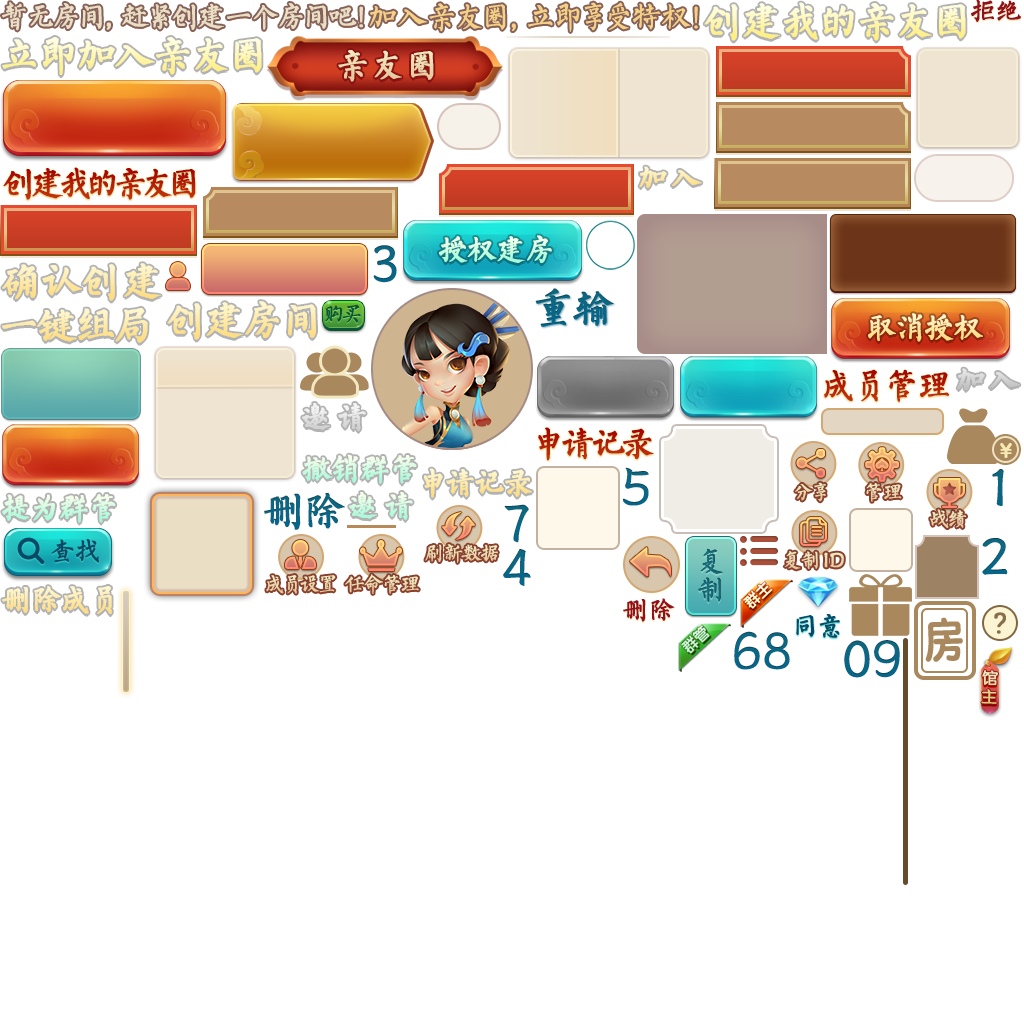
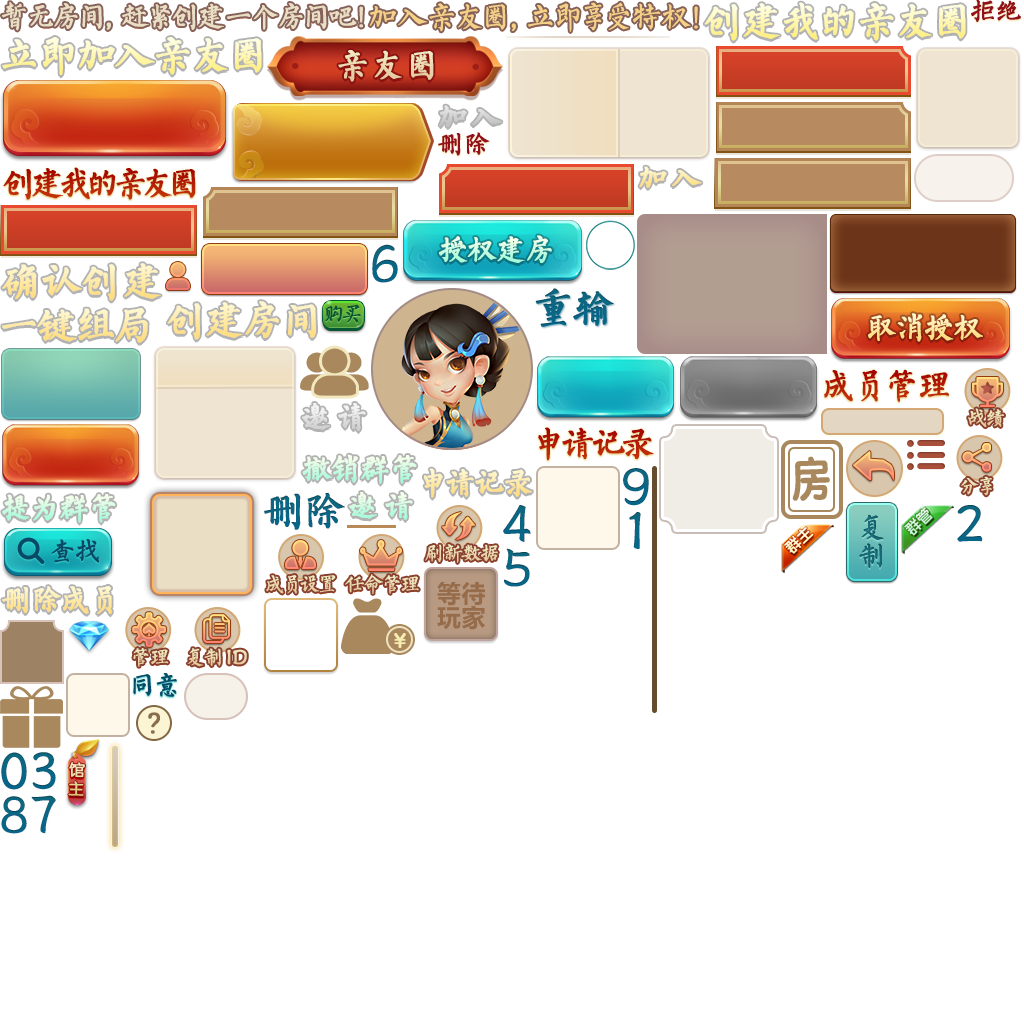
拉取俱乐部房间，创建俱乐部房间，暂时无法进入

diff --git a/assets/Script/modules/lobby/views/club/ClubView.ts b/assets/Script/modules/lobby/views/club/ClubView.ts
@@ -1,6 +1,7 @@
 import { DataStore, Dialog, HTTP, LEnv, LobbyModuleInterface, Logger } from "../../lcore/LCoreExports";
 import { proto } from "../../proto/protoLobby";
 import { LobbyError } from "../LobbyError";
+import { NewRoomView } from "../NewRoomView";
 import { ApplyRecordView } from "./ApplyRecordView";
 import { ClubRequestError } from "./ClubRequestError";
 import { CreateClubView } from "./CreateClubView";
@@ -24,10 +25,10 @@ export class ClubView extends cc.Component {
     private createClubViewEventTarget: cc.EventTarget;
     private content: fgui.GComponent;
     // 茶馆页面
-    private clubPage: fgui.GObject;
+    private clubPage: fgui.GComponent;
 
     // 非茶馆页面
-    private noClubPage: fgui.GObject;
+    private noClubPage: fgui.GComponent;
 
     // 茶馆列表节点
     private clubList: fgui.GList;
@@ -38,20 +39,22 @@ export class ClubView extends cc.Component {
     // 选择的茶馆
     private selectedClub: proto.club.IMsgClubInfo;
 
+    // 茶馆房间列表
+    private roomList: fgui.GList;
+
+    private roomInfos: proto.lobby.IRoomInfo[] = [];
+
     public disbandClub(): void {
 
         const tk = DataStore.getString("token", "");
         const url = `${LEnv.rootURL}${LEnv.deleteClub}?&tk=${tk}&clubID=${this.selectedClub.baseInfo.clubID}`;
 
         const cb = (xhr: XMLHttpRequest, err: string) => {
-
             const data = <Uint8Array>xhr.response;
             this.reloadCLub(data);
-
         };
 
         this.clubRequest(url, cb);
-
     }
 
     public modifyClubName(): void {
@@ -59,15 +62,12 @@ export class ClubView extends cc.Component {
     }
 
     public quitClub(): void {
-        //
         const tk = DataStore.getString("token", "");
         const url = `${LEnv.rootURL}${LEnv.quitClub}?&tk=${tk}&clubID=${this.selectedClub.baseInfo.clubID}`;
 
         const cb = (xhr: XMLHttpRequest, err: string) => {
-
             const data = <Uint8Array>xhr.response;
             this.reloadCLub(data);
-
         };
 
         this.clubRequest(url, cb);
@@ -102,8 +102,8 @@ export class ClubView extends cc.Component {
     private initView(): void {
 
         this.content = this.view.getChild("content").asCom;
-        this.clubPage = this.content.getChild("clubPage");
-        this.noClubPage = this.content.getChild("noClubPage");
+        this.clubPage = this.content.getChild("clubPage").asCom;
+        this.noClubPage = this.content.getChild("noClubPage").asCom;
 
         const diamondText = this.view.getChild("diamondText");
         diamondText.text = DataStore.getString("diamond");
@@ -116,6 +116,13 @@ export class ClubView extends cc.Component {
             this.renderPhraseListItem(index, item);
         };
         this.clubList.setVirtual();
+
+        // 茶馆房间列表
+        this.roomList = this.clubPage.getChild("roomList").asList;
+        this.roomList.itemRenderer = (index: number, item: fgui.GObject) => {
+            this.renderClubRoomListItem(index, item);
+        };
+        this.roomList.setVirtual();
 
         this.loadClub();
 
@@ -233,6 +240,7 @@ export class ClubView extends cc.Component {
 
     private onRefreshBtnClick(): void {
         //
+        this.loadClubRooms(this.selectedClub.baseInfo.clubID);
     }
 
     private onGameRecordBtnClick(): void {
@@ -249,6 +257,8 @@ export class ClubView extends cc.Component {
 
     private onCreateRoomBtnClick(): void {
         //
+        const view = this.addComponent(NewRoomView);
+        view.saveClubId(this.selectedClub.baseInfo.clubID);
     }
 
     private onCopyWXBtnClick(): void {
@@ -269,6 +279,105 @@ export class ClubView extends cc.Component {
 
         const view = this.addComponent(MemberManagerView);
         view.setClubInfo(this.selectedClub);
+    }
+
+    private renderClubRoomListItem(index: number, obj: fgui.GObject): void {
+
+        let roomInfo: proto.lobby.IRoomInfo;
+
+        if (this.roomInfos !== undefined) {
+            roomInfo = this.roomInfos[index];
+        }
+
+        const nameText = obj.asCom.getChild("name");
+        const stateText = obj.asCom.getChild("status").asTextField;
+        const inviteBtn = obj.asCom.getChild("inviteBtn").asButton;
+        const joinBtn = obj.asCom.getChild("JoinBtn").asButton;
+
+        nameText.text = this.getGameName(roomInfo.config);
+
+        const state = roomInfo.state;
+        //  0表示等待，1表示游戏已经开始
+        if (state === 0) {
+            stateText.text = "等待中...";
+            stateText.color = new cc.Color().fromHEX("#4b8a0e");
+        } else {
+            stateText.text = "已开局";
+            stateText.color = new cc.Color().fromHEX("#b3522e");
+
+            inviteBtn._touchDisabled = true;
+            inviteBtn.getController("gray").selectedIndex = 1;
+
+            joinBtn._touchDisabled = true;
+            joinBtn.getController("gray").selectedIndex = 1;
+
+        }
+
+        const playerNumAcquired = this.getPlayerNumAcquired(roomInfo.config);
+
+        if (playerNumAcquired === (roomInfo.users.length + 1)) {
+            inviteBtn._touchDisabled = true;
+            inviteBtn.getController("gray").selectedIndex = 1;
+
+            joinBtn._touchDisabled = true;
+            joinBtn.getController("gray").selectedIndex = 1;
+        }
+
+        for (let i = 1; i < 7; i++) {
+            obj.asCom.getChild(`iconFrame${i}`).visible = false;
+            obj.asCom.getChild(`loader${i}`).visible = false;
+            obj.asCom.getChild(`notPlayer${i}`).visible = false;
+        }
+
+        for (let i = 1; i < playerNumAcquired + 1; i++) {
+            obj.asCom.getChild(`notPlayer${i}`).visible = true;
+        }
+
+        let iconFrame;
+        let loader;
+        let notPlayer;
+
+        for (let i = 0; i < roomInfo.users.length; i++) {
+            //const player = roomInfo.users[i];
+            iconFrame = obj.asCom.getChild(`iconFrame${i + 1}`);
+            iconFrame.visible = true;
+
+            notPlayer = obj.asCom.getChild(`notPlayer${i + 1}`);
+            notPlayer.visible = false;
+
+            loader = obj.asCom.getChild(`loader${i + 1}`).asLoader;
+            loader.visible = true;
+
+            loader.url = `https://wx.qlogo.cn/mmopen/vi_32/DYAIOgq8
[1 lines of base64/hex data omitted]
+
+        }
+    }
+
+    private getPlayerNumAcquired(roomConfigStr: string): number {
+        const roomConfigJSON = <{ [key: string]: boolean | number }>JSON.parse(roomConfigStr);
+
+        return <number>roomConfigJSON[`playerNumAcquired`];
+
+    }
+
+    private getGameName(roomConfigStr: string): string {
+        const roomConfigJSON = <{ [key: string]: boolean | number }>JSON.parse(roomConfigStr);
+        const roomType = <number>roomConfigJSON[`roomType`];
+        let gameName = "";
+        switch (roomType) {
+            case 21:
+                gameName = "湛江麻将";
+                break;
+            case 1:
+                gameName = "大丰麻将";
+                break;
+
+            default:
+
+        }
+
+        return gameName;
     }
 
     private renderPhraseListItem(index: number, obj: fgui.GObject): void {
@@ -397,11 +506,21 @@ export class ClubView extends cc.Component {
 
         Logger.debug("updateClubRooms roomInfos = ", roomInfos);
 
+        this.roomInfos = [];
+
         if (roomInfos.length === 0) {
             this.clubPage.asCom.getController("hasRoom").selectedIndex = 0;
         } else {
+            this.clubPage.asCom.getController("hasRoom").selectedIndex = 1;
             //
+            this.roomInfos = roomInfos;
+            this.updateClubRoomsList();
         }
+
+    }
+
+    private updateClubRoomsList(): void {
+        this.roomList.numItems = this.roomInfos.length;
     }
 
     private reloadCLub(data: Uint8Array): void {

diff --git a/assets/Script/modules/lobby/views/NewRoomView.ts b/assets/Script/modules/lobby/views/NewRoomView.ts
@@ -27,60 +27,14 @@ export class NewRoomView extends cc.Component {
     private ruleViews: { [key: string]: RuleView } = {};
     private priceCfgs: { [key: string]: object };
 
+    private clubId: string = null;
+
     public getView(): fgui.GComponent {
         return this.view;
     }
 
-    public createRoom(ruleJson: string): void {
-        Logger.debug("NewRoomView.createRoom, ruleJson:", ruleJson);
-        const tk = DataStore.getString("token", "");
-        const createRoomURL = `${LEnv.rootURL}${LEnv.createRoom}?&tk=${tk}`;
-
-        Logger.trace("createRoom, createRoomURL:", createRoomURL);
-        const createRoomReq = new proto.lobby.MsgCreateRoomReq();
-        createRoomReq.config = ruleJson;
-
-        const body = proto.lobby.MsgCreateRoomReq.encode(createRoomReq).toArrayBuffer();
-
-        HTTP.hPost(
-            this.eventTarget,
-            createRoomURL,
-            (xhr: XMLHttpRequest, err: string) => {
-                let errMsg = null;
-                if (err !== null) {
-                    errMsg = `创建房间错误，错误码:${err}`;
-                } else {
-                    errMsg = HTTP.hError(xhr);
-                    if (errMsg === null) {
-                        const data = <Uint8Array>xhr.response;
-                        // proto 解码登录结果
-                        const msgCreateRoomRsp = proto.lobby.MsgCreateRoomRsp.decode(data);
-
-                        Logger.debug("msgCreateRoomRsp:", msgCreateRoomRsp);
-                        if (msgCreateRoomRsp.result === proto.lobby.MsgError.ErrSuccess) {
-                            this.enterGame(msgCreateRoomRsp.roomInfo);
-                        } else if (msgCreateRoomRsp.result === proto.lobby.MsgError.ErrUserInOtherRoom) {
-                            this.reEnterGame(msgCreateRoomRsp.roomInfo);
-                        } else {
-                            Logger.error("Create room error:, code:", msgCreateRoomRsp.result);
-
-                            const errorString = LobbyError.getErrorString(msgCreateRoomRsp.result);
-                            Dialog.showDialog(errorString);
-
-                        }
-                    }
-                }
-
-                if (errMsg !== null) {
-                    Logger.debug("NewRoomView.createRoom failed:", errMsg);
-                    // 显示错误对话框
-                    Dialog.showDialog(errMsg, () => {
-                        //
-                    });
-                }
-            },
-            "arraybuffer",
-            body);
+    public saveClubId(clubId: string): void {
+        this.clubId = clubId;
     }
 
     public updatePrice(price: number): void {
@@ -160,6 +114,64 @@ export class NewRoomView extends cc.Component {
             const rules: string = <string>ruleView.getRules();
             this.createRoom(rules);
         }
+    }
+
+    private createRoom(ruleJson: string): void {
+        Logger.debug("NewRoomView.createRoom, ruleJson:", ruleJson);
+        const tk = DataStore.getString("token", "");
+        let createRoomURL: string = "";
+
+        if (this.clubId !== null && this.clubId !== "") {
+            createRoomURL = `${LEnv.rootURL}${LEnv.createClubRoom}?&tk=${tk}&clubID=${this.clubId}`;
+        } else {
+            createRoomURL = `${LEnv.rootURL}${LEnv.createRoom}?&tk=${tk}`;
+        }
+
+        Logger.trace("createRoom, createRoomURL:", createRoomURL);
+        const createRoomReq = new proto.lobby.MsgCreateRoomReq();
+        createRoomReq.config = ruleJson;
+
+        const body = proto.lobby.MsgCreateRoomReq.encode(createRoomReq).toArrayBuffer();
+
+        HTTP.hPost(
+            this.eventTarget,
+            createRoomURL,
+            (xhr: XMLHttpRequest, err: string) => {
+                let errMsg = null;
+                if (err !== null) {
+                    errMsg = `创建房间错误，错误码:${err}`;
+                } else {
+                    errMsg = HTTP.hError(xhr);
+                    if (errMsg === null) {
+                        const data = <Uint8Array>xhr.response;
+                        // proto 解码登录结果
+                        const msgCreateRoomRsp = proto.lobby.MsgCreateRoomRsp.decode(data);
+
+                        Logger.debug("msgCreateRoomRsp:", msgCreateRoomRsp);
+                        if (msgCreateRoomRsp.result === proto.lobby.MsgError.ErrSuccess) {
+                            this.enterGame(msgCreateRoomRsp.roomInfo);
+                        } else if (msgCreateRoomRsp.result === proto.lobby.MsgError.ErrUserInOtherRoom) {
+                            this.reEnterGame(msgCreateRoomRsp.roomInfo);
+                        } else {
+                            Logger.error("Create room error:, code:", msgCreateRoomRsp.result);
+
+                            const errorString = LobbyError.getErrorString(msgCreateRoomRsp.result);
+                            Dialog.showDialog(errorString);
+
+                        }
+                    }
+                }
+
+                if (errMsg !== null) {
+                    Logger.debug("NewRoomView.createRoom failed:", errMsg);
+                    // 显示错误对话框
+                    Dialog.showDialog(errMsg, () => {
+                        //
+                    });
+                }
+            },
+            "arraybuffer",
+            body);
     }
 
     private selectItem(name: string): void {

diff --git a/assets/Script/modules/lobby/lcore/LEnv.ts b/assets/Script/modules/lobby/lcore/LEnv.ts
@@ -34,18 +34,14 @@ export namespace LEnv {
     export const createClub = "/lobby/uuid/createClub";
     export const loadMyClubs = "/lobby/uuid/loadMyClubs";
     export const deleteClub = "/lobby/uuid/disbandClub";
-
     export const joinClub = "/lobby/uuid/joinClub";
-
     export const quitClub = "/lobby/uuid/quitClub";
-
     export const loadClubMembers = "/lobby/uuid/loadClubMembers";
-
     export const joinApproval = "/lobby/uuid/joinApproval";
-
     export const loadClubEvents = "/lobby/uuid/loadClubEvents";
-
     export const loadClubRooms = "/lobby/uuid/loadClubRooms";
+
+    export const createClubRoom = "/lobby/uuid/createClubRoom";
 
     export const cfmt = (str: string, ...args: any[]): string => { // tslint:disable-line:no-any
         return str.replace(/{(\d+)}/g, (match, n) => {
